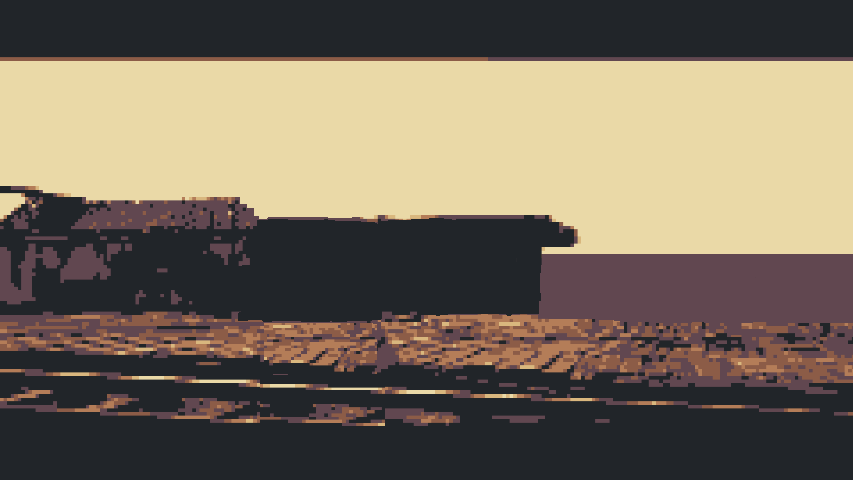
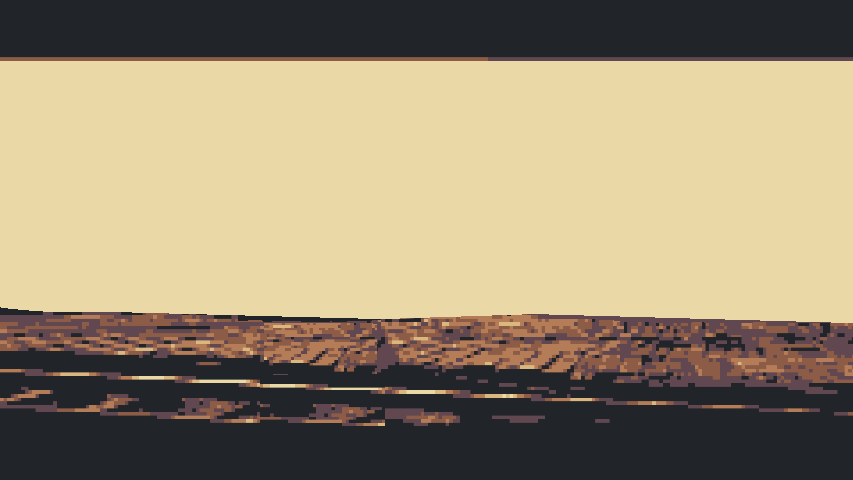
asset creation

Changed region(s): [[0.0, 0.375, 1.0, 0.6875]]

diff --git a/src/scenes/scene1.js b/src/scenes/scene1.js
@@ -3,7 +3,7 @@ class scene1 extends Phaser.Scene {
         super('scene1');
     }
     preload() {
-
+        this.load.image('scene1_background', './assets/scene1_images/gameplay/scene1_background.png');
     }
     create() {
         // menu text configuration
@@ -20,8 +20,13 @@ class scene1 extends Phaser.Scene {
             fixedWidth: 0
         }
         this.add.text(game.config.width/2, game.config.height/15, 'SCENE 1', menuConfig).setOrigin(0.5);
+        this.scene1_background = this.add.sprite(0, 0, 'scene1_background').setOrigin(0);
+
+        //create UI
+        this.UI = new UI(this,300,300, 'cursor_base');
+        this.UI.create();
     }
     update() {
-        
+        this.UI.update();
     }
 }
